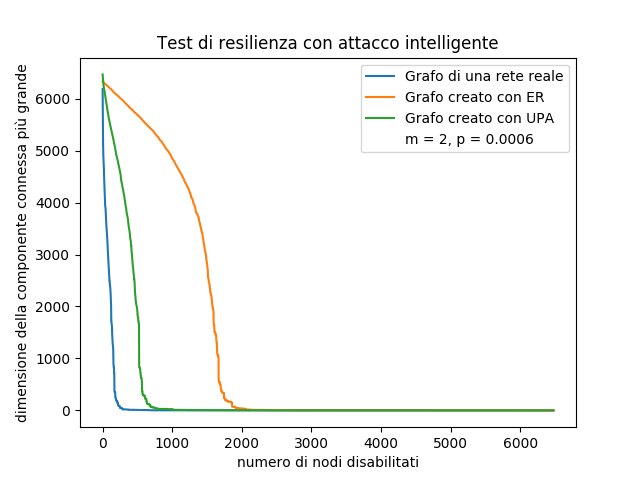
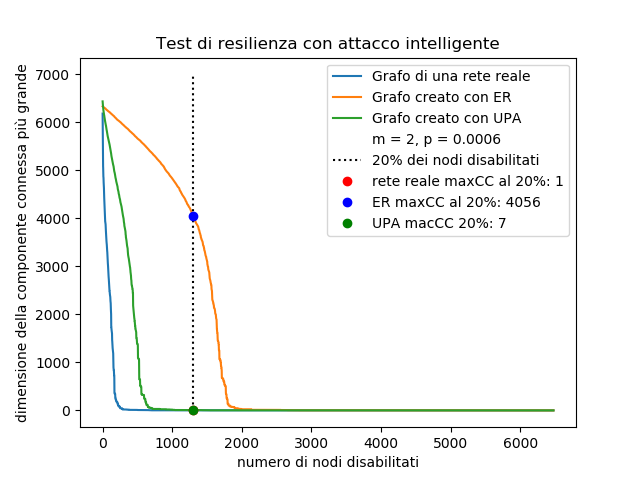
Scritto Risposte (da rivedere), inserito i grafici completi

diff --git a/Script/Plot.py b/Script/Plot.py
@@ -48,10 +48,13 @@ def plotRandomAttack(txt, ER, UPA):
     plt.plot(erDN, erCCN, label='Grafo creato con ER')
     plt.plot(upaDN, upaCCN, label='Grafo creato con UPA')
     plt.plot([0, 1], [0, 1], label='m = 2, p = 0.0006', color='w')
-    plt.plot([1295, 1295], [0, 7000], color='k', linestyle=':')
-    plt.plot(txtDN[1294], txtCCN[1294], 'ro', label='dimensione componente connessa più grande dopo aver rimosso il 20% dei nodi')
-    plt.plot(erDN[1294], erCCN[1294], 'ro')
-    plt.plot(upaDN[1294], upaCCN[1294], 'ro')
+    plt.plot([1295, 1295], [0, 7000], color='k', linestyle=':', label='20% dei nodi disabilitati')
+    plt.plot(txtDN[1294], txtCCN[1294], 'ro',
+             label='rete reale maxCC al 20%: ' + str(txtCCN[1294]))
+    plt.plot(erDN[1294], erCCN[1294], 'bo',
+             label='ER maxCC al 20%: ' + str(erCCN[1294]))
+    plt.plot(upaDN[1294], upaCCN[1294], 'go',
+             label='UPA macCC 20%: ' + str(upaCCN[1294]))
     plt.legend()
     plt.xlabel('numero di nodi disabilitati')
     plt.ylabel('dimensione della componente connessa più grande')
@@ -68,7 +71,13 @@ def plotMaxGradeAttack(txt, ER, UPA):
     plt.plot(erDN, erCCN, label='Grafo creato con ER')
     plt.plot(upaDN, upaCCN, label='Grafo creato con UPA')
     plt.plot([0, 1], [0, 1], label='m = 2, p = 0.0006', color='w')
-    plt.plot([1295, 1295], [0, 7000], color='k', linestyle=':')
+    plt.plot([1295, 1295], [0, 7000], color='k', linestyle=':', label='20% dei nodi disabilitati')
+    plt.plot(txtDN[1294], txtCCN[1294], 'ro',
+             label='rete reale maxCC al 20%: ' + str(txtCCN[1294]))
+    plt.plot(erDN[1294], erCCN[1294], 'bo',
+             label='ER maxCC al 20%: ' + str(erCCN[1294]))
+    plt.plot(upaDN[1294], upaCCN[1294], 'go',
+             label='UPA macCC 20%: ' + str(upaCCN[1294]))
     plt.legend()
     plt.xlabel('numero di nodi disabilitati')
     plt.ylabel('dimensione della componente connessa più grande')

diff --git a/Script/main.py b/Script/main.py
@@ -38,9 +38,9 @@ def main():
     print('UPA nodes:', upaGraph.countNodes())
     print('UPA arcs', upaGraph.countArcs())"""
     # Disegna grafico a 3 linee per l'attacco random sui 3 grafi
-    Plot.plotRandomAttack(txtGraph,erGraph,upaGraph)
+    #Plot.plotRandomAttack(txtGraph,erGraph,upaGraph)
     # Disegna un grafico a 3 linee dell'attacco intlligente sui 3 grafi
-    #Plot.plotMaxGradeAttack(txtGraph, erGraph, upaGraph)
+    Plot.plotMaxGradeAttack(txtGraph, erGraph, upaGraph)
 
 
 main()
